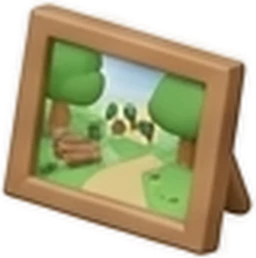
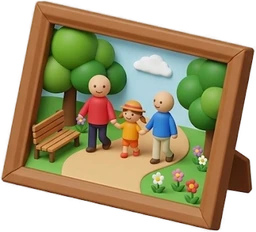
v162: all 8 family photo frames with the family, upright atlas / art / song books
Claude-Session: https://claude.ai/code/session_01PRHybDNjeetHDn4kd4ub9X

diff --git a/public/js/koala-art.js b/public/js/koala-art.js
@@ -646,7 +646,7 @@
   // things for the 3D house's sink and fridge (no flat drawing; an emoji stands in)
   const HOUSE_SUB_EMOJI = { shampoo: "🧴", conditioner: "🧴", soap: "🧼", toothbrush: "🪥", toothpaste: "🦷", handwash: "🫧", mirror: "🪞", cupBrush: "🥛", chocolate: "🍫", cake: "🍰", bread: "🍞", pizza: "🍕", pasta: "🍝", meat: "🥩", veggies: "🥦", kimchi: "🥬", eggs: "🥚", cheese: "🧀", fruit: "🍎", iceCream: "🍦", water: "💧", cola: "🥤", milk: "🥛", juice: "🧃", toolDrill: "🔧", toolScrewdriver: "🪛", toolSaw: "🪚", toolHammer: "🔨", toolWrench: "🔧", toolPliers: "🗜", toolTape: "📏", toolPaint: "🎨", shoeSneakers: "👟", shoeBoots: "🥾", shoeSandals: "🩴", shoeSlippers: "🩴", shoeSchool: "👞", shoeRain: "🥾" };
   // 3D pictures made for some of the small things (cards and the detail popup show them instead of the flat drawing)
-  const SUB_PIC = { pwBow: [1, 0.75], pwTopHat: [1, 0.91], pwBowTie: [1, 0.58], pwRaincoat: [1, 1.28], pwCape: [1, 1.16], pwBoots: [1, 1.01], fairyBook: [1, 1.41], oceanBook: [1, 1.39], jokeBook: [1, 1.41], atlasBook: [1, 0.96], artBook: [1, 0.95], songBook: [1, 0.94], abcBook: [1, 1.23], animalBook: [1, 1.23], dinoBook: [1, 1.23], koalaBook: [1, 1.23], mathBook: [1, 1.21], photoBeach: [1, 1], photoPicnic: [1, 1], photoPark: [1, 1], photoZoo: [1, 1], pwBell: [1, 0.96], pwPartyHat: [1, 1.54], pwFlowers: [1, 0.69], pwCollar: [1, 0.88], pwSneakers: [1, 0.84], pwScarf: [1, 1.09], pwSweater: [1, 0.87] };
+  const SUB_PIC = { photoGrad: [1, 1.04], photoSnow: [1, 1.05], photoCamp: [1, 1.04], photoBirthday: [1, 1.04], pwBow: [1, 0.75], pwTopHat: [1, 0.91], pwBowTie: [1, 0.58], pwRaincoat: [1, 1.28], pwCape: [1, 1.16], pwBoots: [1, 1.01], fairyBook: [1, 1.41], oceanBook: [1, 1.39], jokeBook: [1, 1.41], atlasBook: [1, 1.38], artBook: [1, 1.39], songBook: [1, 1.39], abcBook: [1, 1.23], animalBook: [1, 1.23], dinoBook: [1, 1.23], koalaBook: [1, 1.23], mathBook: [1, 1.21], photoBeach: [1, 0.93], photoPicnic: [1, 0.92], photoPark: [1, 0.91], photoZoo: [1, 0.91], pwBell: [1, 0.96], pwPartyHat: [1, 1.54], pwFlowers: [1, 0.69], pwCollar: [1, 0.88], pwSneakers: [1, 0.84], pwScarf: [1, 1.09], pwSweater: [1, 0.87] };
   function subIcon(id) {
     const head = `<svg class="koala-icon-svg koala-sub-svg" xmlns="http://www.w3.org/2000/svg" aria-hidden="true" focusable="false" `;
     if (SUB_PIC[id]) { const r = SUB_PIC[id][1], w = 100, h = Math.round(w * r); return `${head}viewBox="0 0 ${w} ${h}"><image href="/img/house/sub/${id}.webp" x="0" y="0" width="${w}" height="${h}" preserveAspectRatio="xMidYMid meet"/></svg>`; }

diff --git a/public/sw.js b/public/sw.js
@@ -3,7 +3,7 @@
      shows up immediately; the cached copy is used only when offline.
    - /api/* is never cached (logins, shared words, sync always go to the server).
    - Google Fonts: stale-while-revalidate. Bump CACHE when the list changes. */
-const CACHE = "koala-study-v161";
+const CACHE = "koala-study-v162";
 const PRECACHE = [
   "/", "/index.html", "/css/style.css", "/css/themes.css", "/css/admin.css", "/js/app.js", "/js/support.js",
   "/js/faq.js", "/js/admin-cs.js", "/js/koala-core.js", "/js/quiz-core.js", "/js/koala-art.js", "/js/koala-house.js", "/js/koala-house-ui.js", "/css/koala-house.css", "/js/words.js", "/js/words_ko.js",
